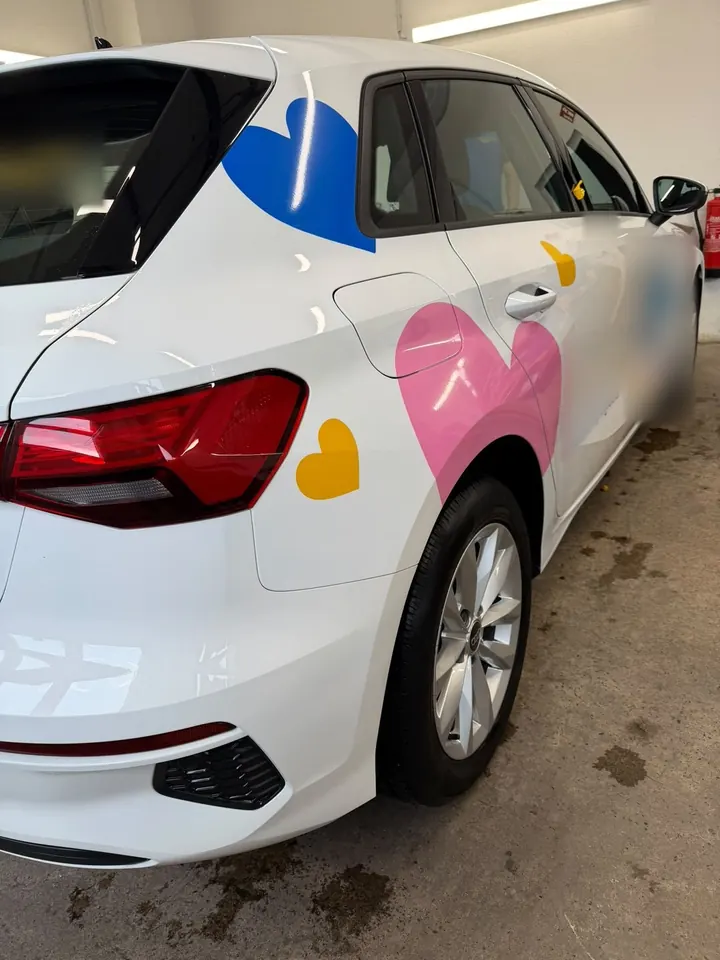
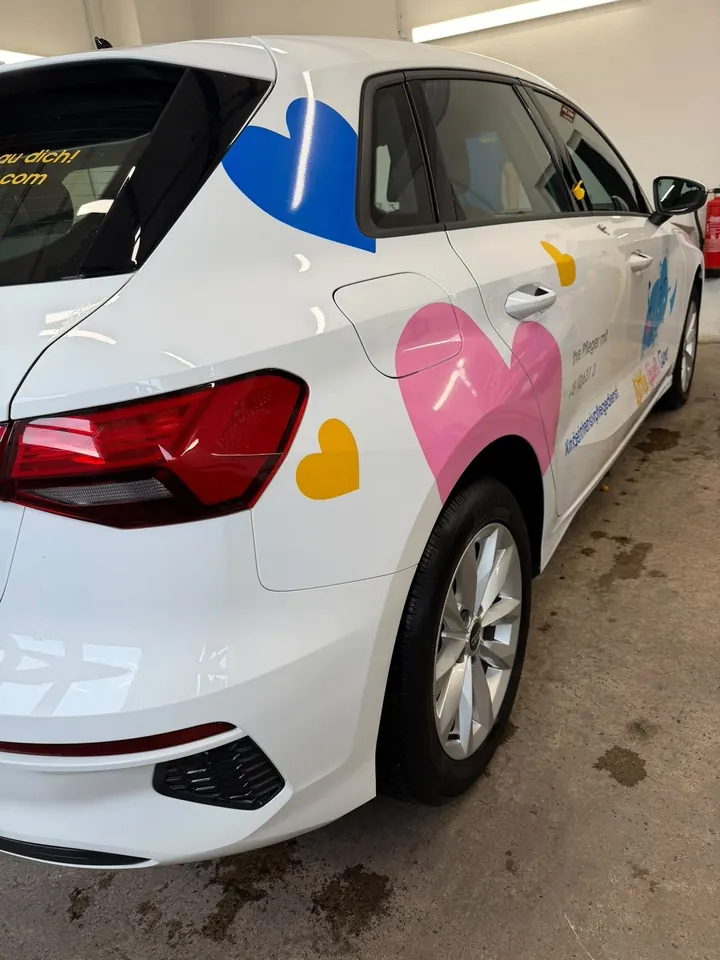
Z&H Leasing: Vorher-Fotos mit sichtbarer Firmenbeschriftung (Alis OK), Hinweistext angepasst
Claude-Session: https://claude.ai/code/session_01WaxZLoqGUdvgcviJtSAD3s

Changed region(s): [[0.7639, 0.25, 0.9778, 0.4688], [0.0, 0.125, 0.1528, 0.2188], [0.7944, 0.2188, 0.8556, 0.25]]

diff --git a/zh-aufbereitung/leasing.html b/zh-aufbereitung/leasing.html
@@ -10,9 +10,9 @@
 <meta name="theme-color" content="#06090a">
 <link rel="icon" href="img/favicon.png">
 <link rel="preload" href="fonts/unbounded-latin-800-normal.woff2" as="font" type="font/woff2" crossorigin>
-<link rel="stylesheet" href="assets/style.css?v=1793453056">
+<link rel="stylesheet" href="assets/style.css?v=1793459974">
 <script type="application/ld+json">{"@context": "https://schema.org", "@type": "AutoWash", "name": "Z&H Aufbereitung", "alternateName": "ZH KFZ Aufbereitung", "founder": "Ali Fakih", "telephone": "+496841890200", "address": {"@type": "PostalAddress", "streetAddress": "Ortsstraße 14", "postalCode": "66459", "addressLocality": "Kirkel-Altstadt", "addressCountry": "DE"}, "geo": {"@type": "GeoCoordinates", "latitude": 49.3195934, "longitude": 7.2845028}, "openingHoursSpecification": [{"@type": "OpeningHoursSpecification", "dayOfWeek": ["Monday", "Tuesday", "Wednesday", "Thursday", "Friday"], "opens": "08:00", "closes": "16:30"}], "aggregateRating": {"@type": "AggregateRating", "ratingValue": "4.6", "reviewCount": "32"}}</script>
-<link rel="stylesheet" href="assets/leasing.css?v=1793453056">
+<link rel="stylesheet" href="assets/leasing.css?v=1793459974">
 <script type="application/ld+json">{"@context": "https://schema.org", "@type": "FAQPage", "mainEntity": [{"@type": "Question", "name": "Warum vor der Leasingrückgabe aufbereiten?", "acceptedAnswer": {"@type": "Answer", "text": "Bei der Rückgabe prüft ein Gutachter das Auto. Was über normale Gebrauchsspuren hinausgeht, kann der Leasinggeber nachberechnen. Folienreste, Kleber, feine Kratzer, Flecken und Gerüche lassen sich vorher oft beseitigen."}}, {"@type": "Question", "name": "Kann ich die Folie auch selbst abziehen?", "acceptedAnswer": {"@type": "Answer", "text": "Können Sie. Aber gerade ältere oder günstige Folie reißt in kleinen Stücken, und der Kleber bleibt auf dem Lack. Wer dann kratzt oder schabt, riskiert neue Schäden. Wir lösen Folie und Kleber schonend und polieren danach."}}, {"@type": "Question", "name": "Was kostet das?", "acceptedAnswer": {"@type": "Answer", "text": "Das hängt von Fahrzeug, Folie und Zustand ab. Schicken Sie ein paar Fotos per WhatsApp, dann sagt Ali Ihnen den Preis."}}, {"@type": "Question", "name": "Machen Sie das auch für Firmen und Flotten?", "acceptedAnswer": {"@type": "Answer", "text": "Ja. Dienstwagen, Transporter und ganze Fuhrparks, auch mit Firmenbeschriftung."}}, {"@type": "Question", "name": "Wann sollte ich mich melden?", "acceptedAnswer": {"@type": "Answer", "text": "Am besten, sobald der Rückgabetermin feststeht."}}]}</script>
 </head>
 <body>
@@ -85,7 +85,7 @@
       <figcaption><b>Heck rechts</b><span class="pl-d">Herzen und Beschriftung bis zur Tür</span><span class="pl-dn">Folie ab, Lack glänzt</span></figcaption>
     </figure></div>
     <div class="pl-sum"><p data-pl-sum>0 von 2 Folien ab</p><button class="btn btn-line sm" type="button" data-pl-all>Beide Folien abziehen</button></div>
-    <p class="small mute ls-note">Echte Fotos aus der Halle von Z&amp;H. Die Firmenbeschriftung des Kunden ist unkenntlich gemacht.</p>
+    <p class="small mute ls-note">Echte Fotos aus der Halle von Z&amp;H.</p>
   </div>
 </section>
 <section class="ch ls-run night" aria-labelledby="lr-h">
@@ -205,7 +205,7 @@
 <script src="js/gsap.min.js"></script>
 <script src="js/ScrollTrigger.min.js"></script>
 <script src="js/lenis.min.js"></script>
-<script src="assets/app.js?v=1793453056"></script>
-<script src="assets/leasing.js?v=1793453056"></script>
+<script src="assets/app.js?v=1793459974"></script>
+<script src="assets/leasing.js?v=1793459974"></script>
 </body>
 </html>

diff --git a/zh-aufbereitung/index.html b/zh-aufbereitung/index.html
@@ -10,9 +10,9 @@
 <meta name="theme-color" content="#06090a">
 <link rel="icon" href="img/favicon.png">
 <link rel="preload" href="fonts/unbounded-latin-800-normal.woff2" as="font" type="font/woff2" crossorigin>
-<link rel="stylesheet" href="assets/style.css?v=1793453056">
+<link rel="stylesheet" href="assets/style.css?v=1793459974">
 <script type="application/ld+json">{"@context": "https://schema.org", "@type": "AutoWash", "name": "Z&H Aufbereitung", "alternateName": "ZH KFZ Aufbereitung", "founder": "Ali Fakih", "telephone": "+496841890200", "address": {"@type": "PostalAddress", "streetAddress": "Ortsstraße 14", "postalCode": "66459", "addressLocality": "Kirkel-Altstadt", "addressCountry": "DE"}, "geo": {"@type": "GeoCoordinates", "latitude": 49.3195934, "longitude": 7.2845028}, "openingHoursSpecification": [{"@type": "OpeningHoursSpecification", "dayOfWeek": ["Monday", "Tuesday", "Wednesday", "Thursday", "Friday"], "opens": "08:00", "closes": "16:30"}], "aggregateRating": {"@type": "AggregateRating", "ratingValue": "4.6", "reviewCount": "32"}}</script>
-<link rel="stylesheet" href="assets/leasing.css?v=1793453056">
+<link rel="stylesheet" href="assets/leasing.css?v=1793459974">
 </head>
 <body>
 <a class="skip" href="#main">Zum Inhalt springen</a>
@@ -181,7 +181,7 @@
       <figcaption><b>Heck rechts</b><span class="pl-d">Herzen und Beschriftung bis zur Tür</span><span class="pl-dn">Folie ab, Lack glänzt</span></figcaption>
     </figure></div>
     <div class="pl-sum"><p data-pl-sum>0 von 2 Folien ab</p><button class="btn btn-line sm" type="button" data-pl-all>Beide Folien abziehen</button></div>
-    <p class="small mute ls-note">Echte Fotos aus der Halle von Z&amp;H. Die Firmenbeschriftung des Kunden ist unkenntlich gemacht.</p>
+    <p class="small mute ls-note">Echte Fotos aus der Halle von Z&amp;H.</p>
   </div>
 </section>
 
@@ -427,7 +427,7 @@
 <script src="js/gsap.min.js"></script>
 <script src="js/ScrollTrigger.min.js"></script>
 <script src="js/lenis.min.js"></script>
-<script src="assets/app.js?v=1793453056"></script>
-<script src="assets/leasing.js?v=1793453056"></script>
+<script src="assets/app.js?v=1793459974"></script>
+<script src="assets/leasing.js?v=1793459974"></script>
 </body>
 </html>

diff --git a/zh-aufbereitung/fahrzeuge.html b/zh-aufbereitung/fahrzeuge.html
@@ -10,9 +10,9 @@
 <meta name="theme-color" content="#06090a">
 <link rel="icon" href="img/favicon.png">
 <link rel="preload" href="fonts/unbounded-latin-800-normal.woff2" as="font" type="font/woff2" crossorigin>
-<link rel="stylesheet" href="assets/style.css?v=1793453056">
+<link rel="stylesheet" href="assets/style.css?v=1793459974">
 <script type="application/ld+json">{"@context": "https://schema.org", "@type": "AutoWash", "name": "Z&H Aufbereitung", "alternateName": "ZH KFZ Aufbereitung", "founder": "Ali Fakih", "telephone": "+496841890200", "address": {"@type": "PostalAddress", "streetAddress": "Ortsstraße 14", "postalCode": "66459", "addressLocality": "Kirkel-Altstadt", "addressCountry": "DE"}, "geo": {"@type": "GeoCoordinates", "latitude": 49.3195934, "longitude": 7.2845028}, "openingHoursSpecification": [{"@type": "OpeningHoursSpecification", "dayOfWeek": ["Monday", "Tuesday", "Wednesday", "Thursday", "Friday"], "opens": "08:00", "closes": "16:30"}], "aggregateRating": {"@type": "AggregateRating", "ratingValue": "4.6", "reviewCount": "32"}}</script>
-<link rel="stylesheet" href="assets/fahrzeuge.css?v=1793453056">
+<link rel="stylesheet" href="assets/fahrzeuge.css?v=1793459974">
 </head>
 <body>
 <a class="skip" href="#main">Zum Inhalt springen</a>
@@ -266,7 +266,7 @@
 <script src="js/gsap.min.js"></script>
 <script src="js/ScrollTrigger.min.js"></script>
 <script src="js/lenis.min.js"></script>
-<script src="assets/app.js?v=1793453056"></script>
-<script src="assets/fahrzeuge.js?v=1793453056"></script>
+<script src="assets/app.js?v=1793459974"></script>
+<script src="assets/fahrzeuge.js?v=1793459974"></script>
 </body>
 </html>

diff --git a/zh-aufbereitung/datenschutz.html b/zh-aufbereitung/datenschutz.html
@@ -10,7 +10,7 @@
 <meta name="theme-color" content="#06090a">
 <link rel="icon" href="img/favicon.png">
 <link rel="preload" href="fonts/unbounded-latin-800-normal.woff2" as="font" type="font/woff2" crossorigin>
-<link rel="stylesheet" href="assets/style.css?v=1793453056">
+<link rel="stylesheet" href="assets/style.css?v=1793459974">
 <script type="application/ld+json">{"@context": "https://schema.org", "@type": "AutoWash", "name": "Z&H Aufbereitung", "alternateName": "ZH KFZ Aufbereitung", "founder": "Ali Fakih", "telephone": "+496841890200", "address": {"@type": "PostalAddress", "streetAddress": "Ortsstraße 14", "postalCode": "66459", "addressLocality": "Kirkel-Altstadt", "addressCountry": "DE"}, "geo": {"@type": "GeoCoordinates", "latitude": 49.3195934, "longitude": 7.2845028}, "openingHoursSpecification": [{"@type": "OpeningHoursSpecification", "dayOfWeek": ["Monday", "Tuesday", "Wednesday", "Thursday", "Friday"], "opens": "08:00", "closes": "16:30"}], "aggregateRating": {"@type": "AggregateRating", "ratingValue": "4.6", "reviewCount": "32"}}</script>
 </head>
 <body>
@@ -116,6 +116,6 @@
 <script src="js/gsap.min.js"></script>
 <script src="js/ScrollTrigger.min.js"></script>
 <script src="js/lenis.min.js"></script>
-<script src="assets/app.js?v=1793453056"></script>
+<script src="assets/app.js?v=1793459974"></script>
 </body>
 </html>

diff --git a/zh-aufbereitung/impressum.html b/zh-aufbereitung/impressum.html
@@ -10,7 +10,7 @@
 <meta name="theme-color" content="#06090a">
 <link rel="icon" href="img/favicon.png">
 <link rel="preload" href="fonts/unbounded-latin-800-normal.woff2" as="font" type="font/woff2" crossorigin>
-<link rel="stylesheet" href="assets/style.css?v=1793453056">
+<link rel="stylesheet" href="assets/style.css?v=1793459974">
 <script type="application/ld+json">{"@context": "https://schema.org", "@type": "AutoWash", "name": "Z&H Aufbereitung", "alternateName": "ZH KFZ Aufbereitung", "founder": "Ali Fakih", "telephone": "+496841890200", "address": {"@type": "PostalAddress", "streetAddress": "Ortsstraße 14", "postalCode": "66459", "addressLocality": "Kirkel-Altstadt", "addressCountry": "DE"}, "geo": {"@type": "GeoCoordinates", "latitude": 49.3195934, "longitude": 7.2845028}, "openingHoursSpecification": [{"@type": "OpeningHoursSpecification", "dayOfWeek": ["Monday", "Tuesday", "Wednesday", "Thursday", "Friday"], "opens": "08:00", "closes": "16:30"}], "aggregateRating": {"@type": "AggregateRating", "ratingValue": "4.6", "reviewCount": "32"}}</script>
 </head>
 <body>
@@ -108,6 +108,6 @@
 <script src="js/gsap.min.js"></script>
 <script src="js/ScrollTrigger.min.js"></script>
 <script src="js/lenis.min.js"></script>
-<script src="assets/app.js?v=1793453056"></script>
+<script src="assets/app.js?v=1793459974"></script>
 </body>
 </html>

diff --git a/zh-aufbereitung/kontakt.html b/zh-aufbereitung/kontakt.html
@@ -10,7 +10,7 @@
 <meta name="theme-color" content="#06090a">
 <link rel="icon" href="img/favicon.png">
 <link rel="preload" href="fonts/unbounded-latin-800-normal.woff2" as="font" type="font/woff2" crossorigin>
-<link rel="stylesheet" href="assets/style.css?v=1793453056">
+<link rel="stylesheet" href="assets/style.css?v=1793459974">
 <script type="application/ld+json">{"@context": "https://schema.org", "@type": "AutoWash", "name": "Z&H Aufbereitung", "alternateName": "ZH KFZ Aufbereitung", "founder": "Ali Fakih", "telephone": "+496841890200", "address": {"@type": "PostalAddress", "streetAddress": "Ortsstraße 14", "postalCode": "66459", "addressLocality": "Kirkel-Altstadt", "addressCountry": "DE"}, "geo": {"@type": "GeoCoordinates", "latitude": 49.3195934, "longitude": 7.2845028}, "openingHoursSpecification": [{"@type": "OpeningHoursSpecification", "dayOfWeek": ["Monday", "Tuesday", "Wednesday", "Thursday", "Friday"], "opens": "08:00", "closes": "16:30"}], "aggregateRating": {"@type": "AggregateRating", "ratingValue": "4.6", "reviewCount": "32"}}</script>
 </head>
 <body>
@@ -109,6 +109,6 @@
 <script src="js/gsap.min.js"></script>
 <script src="js/ScrollTrigger.min.js"></script>
 <script src="js/lenis.min.js"></script>
-<script src="assets/app.js?v=1793453056"></script>
+<script src="assets/app.js?v=1793459974"></script>
 </body>
 </html>

diff --git a/zh-aufbereitung/leistungen.html b/zh-aufbereitung/leistungen.html
@@ -10,7 +10,7 @@
 <meta name="theme-color" content="#06090a">
 <link rel="icon" href="img/favicon.png">
 <link rel="preload" href="fonts/unbounded-latin-800-normal.woff2" as="font" type="font/woff2" crossorigin>
-<link rel="stylesheet" href="assets/style.css?v=1793453056">
+<link rel="stylesheet" href="assets/style.css?v=1793459974">
 <script type="application/ld+json">{"@context": "https://schema.org", "@type": "AutoWash", "name": "Z&H Aufbereitung", "alternateName": "ZH KFZ Aufbereitung", "founder": "Ali Fakih", "telephone": "+496841890200", "address": {"@type": "PostalAddress", "streetAddress": "Ortsstraße 14", "postalCode": "66459", "addressLocality": "Kirkel-Altstadt", "addressCountry": "DE"}, "geo": {"@type": "GeoCoordinates", "latitude": 49.3195934, "longitude": 7.2845028}, "openingHoursSpecification": [{"@type": "OpeningHoursSpecification", "dayOfWeek": ["Monday", "Tuesday", "Wednesday", "Thursday", "Friday"], "opens": "08:00", "closes": "16:30"}], "aggregateRating": {"@type": "AggregateRating", "ratingValue": "4.6", "reviewCount": "32"}}</script>
 </head>
 <body>
@@ -100,6 +100,6 @@
 <script src="js/gsap.min.js"></script>
 <script src="js/ScrollTrigger.min.js"></script>
 <script src="js/lenis.min.js"></script>
-<script src="assets/app.js?v=1793453056"></script>
+<script src="assets/app.js?v=1793459974"></script>
 </body>
 </html>

diff --git a/zh-aufbereitung/wohnmobile.html b/zh-aufbereitung/wohnmobile.html
@@ -10,7 +10,7 @@
 <meta name="theme-color" content="#06090a">
 <link rel="icon" href="img/favicon.png">
 <link rel="preload" href="fonts/unbounded-latin-800-normal.woff2" as="font" type="font/woff2" crossorigin>
-<link rel="stylesheet" href="assets/style.css?v=1793453056">
+<link rel="stylesheet" href="assets/style.css?v=1793459974">
 <script type="application/ld+json">{"@context": "https://schema.org", "@type": "AutoWash", "name": "Z&H Aufbereitung", "alternateName": "ZH KFZ Aufbereitung", "founder": "Ali Fakih", "telephone": "+496841890200", "address": {"@type": "PostalAddress", "streetAddress": "Ortsstraße 14", "postalCode": "66459", "addressLocality": "Kirkel-Altstadt", "addressCountry": "DE"}, "geo": {"@type": "GeoCoordinates", "latitude": 49.3195934, "longitude": 7.2845028}, "openingHoursSpecification": [{"@type": "OpeningHoursSpecification", "dayOfWeek": ["Monday", "Tuesday", "Wednesday", "Thursday", "Friday"], "opens": "08:00", "closes": "16:30"}], "aggregateRating": {"@type": "AggregateRating", "ratingValue": "4.6", "reviewCount": "32"}}</script>
 </head>
 <body>
@@ -180,6 +180,6 @@
 <script src="js/gsap.min.js"></script>
 <script src="js/ScrollTrigger.min.js"></script>
 <script src="js/lenis.min.js"></script>
-<script src="assets/app.js?v=1793453056"></script>
+<script src="assets/app.js?v=1793459974"></script>
 </body>
 </html>
